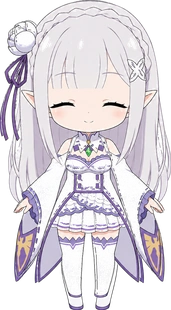
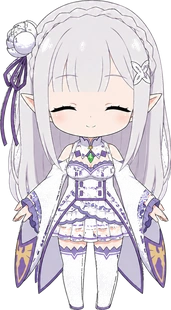
fix(pet): 闭眼帧改按整体轮廓高度归一化配准，消除高度差
- 之前用 IoU 最优（s=1.120），优化目标包含了宽度/发量差异，导致高度没对齐（观感“高了半条腿”）
- 改为：s = 底图轮廓高 / 闭眼轮廓高 = 1233/1057 = 1.1665，再把底边与水平中心对齐（dx=-2.3, dy=0.2）
- 校验：两帧 1x 素材 alpha bbox 完全一致 (0,0,170,309) → 顶/底/左右都对齐
- v=20261030p / codeVer 20261030.14

diff --git a/source/js/pet.js b/source/js/pet.js
@@ -33,8 +33,8 @@
   var bubbleTimer = null, lastPath = null, raf = 0;
 
   /* ---------- 伪 2.5D：整卡透视倾斜 ---------- */
-  var ASSET_V = '?v=20261030n';
-  var PET_VER = '20261030.13';   // 内容指纹：改素材必须同步改这里，否则 CDN 7 天缓存不会更新
+  var ASSET_V = '?v=20261030p';
+  var PET_VER = '20261030.14';   // 内容指纹：改素材必须同步改这里，否则 CDN 7 天缓存不会更新
   var SPRITE_CLOSED_1X = '/images/pet/front_closed_310.webp' + ASSET_V;
   var SPRITE_CLOSED_2X = '/images/pet/front_closed_620.webp' + ASSET_V;
   var SPRITE_CLOSED_3X = '/images/pet/front_closed_930.webp' + ASSET_V;
